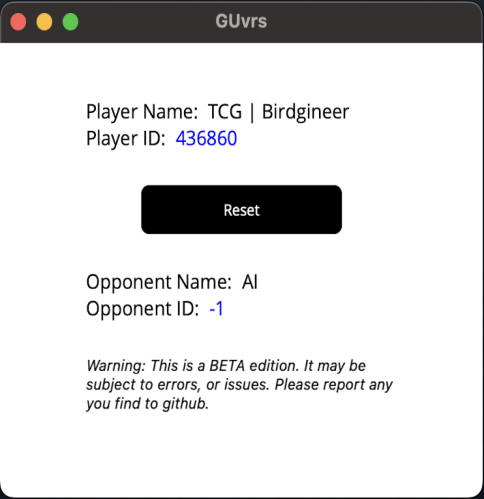
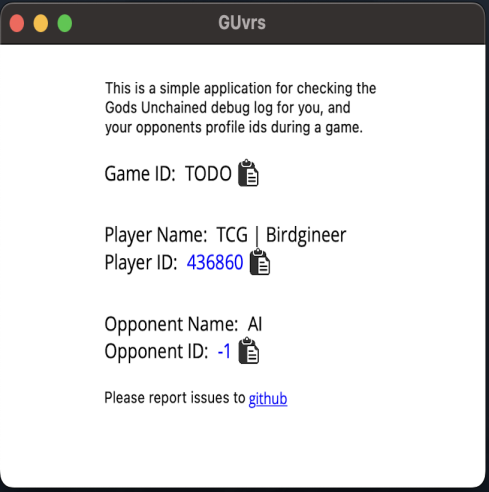
update readme, and screenshots

Changed region(s): [[0.155, 0.3049, 0.8058, 0.8537], [0.0, 0.0, 1.0, 1.0], [0.155, 0.1524, 0.7748, 0.3049]]

diff --git a/README.md b/README.md
@@ -21,17 +21,17 @@ You can download the latest release for Windows, or Mac from [here](https://gith
 3. Right click on ```GUvrs.exe``` and select Send to -> Desktop to create a short cut on your desktop.
 
 ## Mac
-1. You may get an error about the install package being from an unknown developer. You can bypass this:
-    - Hold down control, click on the install package, then release control
-    - Select open from the context menu
-2. Open your application bar and search for ```GUvrs```
+1. Extract the contents of the zip file into a location you wish to install the application.
+2. Run the application ```GUvrs.app``` in the folder you installed the application.
+    - You may get an error about the app being from an unknown developer. You can bypass this:
+        - Hold down control, click on the app, then release control
+        - Select open from the context menu
 #### *Optional*
 3. Right click on ```GUvrs``` whiile running and select Keep on Dock.
 
 # Usage
 
-1. Run ```GUvrs.exe``` from the location you installed it, or by launching the short cut you created. You can run the application before connecting to a game, while connecting to a game, or while already connected to a game.
-2. You can click the reset button at any time and it will force the application to clear any ids it may have found. This will also schdule it to rescan for new ids as soon as it is able. It's best to do this once a game ends, and before starting the next game. Addtionally you can also close, and reopen the application for the same effect.
+1. Run ```GUvrs.exe``` or ```GUvrs.app``` from the location you installed it, or by launching the short cut you created. You can run the application before connecting to a game, while connecting to a game, or while already connected to a game.
 
 *Note: There may be a delay before player information is found. This delay primarly depends on both your computers disk speed, and if any actions have been taken in game that cause the game to write an entry to the log file.*
 
@@ -39,12 +39,20 @@ You can download the latest release for Windows, or Mac from [here](https://gith
 
 Visual Studio should automatically select the right publish commands for you, but in the instances it get's confused due to multi-targeting you can specify the publish command directly though the developer console.
 
+### Visual Studio
+
+The below line may be required at publish time to include all assets for MAUI.NET. This is a known issue with MAUI that has yet to be addressed. It should also be noted that you might need to comment out this line in the GUvrs.csproj to debug on windows.
+
+```xml
+<WindowsPackageType>None</WindowsPackageType>
+```
+
 ### Windows
 ```bash
-dotnet publish GUvrs.csproj -f net7.0-maccatalyst15.4
+dotnet publish GUvrs.csproj -f net7.0-windows10.0.19041.0
 ```
 
 ### Mac
 ```bash
-dotnet publish GUvrs.csproj -f net7.0-windows10.0.19041.0
+dotnet publish GUvrs.csproj -f net7.0-maccatalyst15.4
 ```
